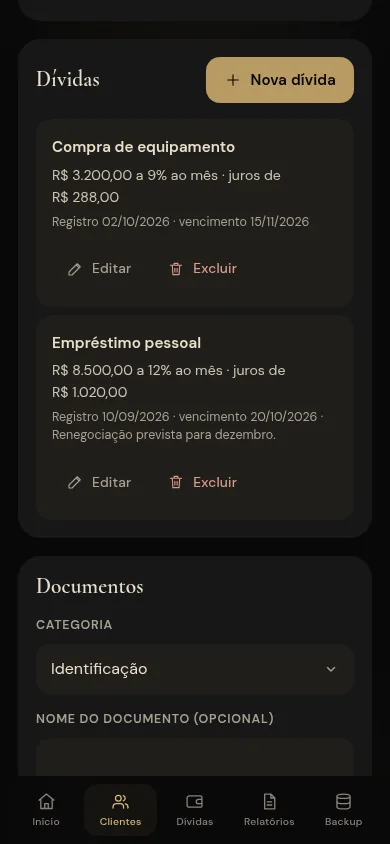
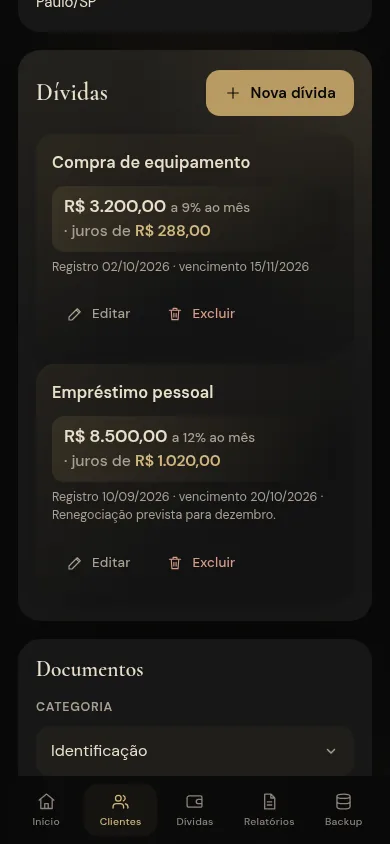
Highlight client debt card with financial hierarchy

diff --git a/sw.js b/sw.js
@@ -1,5 +1,5 @@
 // Ao adicionar arquivos nas próximas etapas: inclua-os em FILES e incremente V.
-const V='sc-v50',FILES=['./','index.html','manifest.json','css/app.css','css/ui.css','src/ui/icons.js','src/ui/shell.js','src/ui/kit.js','src/main.js','src/pwa.js','vendor/fflate.min.js','src/export/lib.js','src/export/xlsx.js','src/export/backup-format.js','src/export/backup.js','src/export/reports.js','src/ui/tools.js','src/ui/settings.js','src/core/live.js','src/domain/due.js','src/services/search.js','src/services/settings.js','src/services/dashboard.js','src/ui/dashboard.js','src/ui/avatar.js','src/ui/clientlist.js','src/ui/debtspage.js','src/ui/debts.js','src/services/debts.js','src/domain/money.js','src/ui/clients.js','src/services/clients.js','src/services/records.js','src/domain/validators.js','src/files/process.js','src/db/idb.js','src/security/crypto.js','src/security/auth.js','assets/fonts/cormorant-garamond-latin.woff2','assets/fonts/dm-sans-latin.woff2','assets/img/hat.webp','assets/img/office.webp','assets/img/office-desk.webp','assets/icons/icon-192.png','assets/icons/icon-512.png','assets/icons/icon-maskable-512.png','assets/icons/apple-touch-icon.png'];
+const V='sc-v51',FILES=['./','index.html','manifest.json','css/app.css','css/ui.css','src/ui/icons.js','src/ui/shell.js','src/ui/kit.js','src/main.js','src/pwa.js','vendor/fflate.min.js','src/export/lib.js','src/export/xlsx.js','src/export/backup-format.js','src/export/backup.js','src/export/reports.js','src/ui/tools.js','src/ui/settings.js','src/core/live.js','src/domain/due.js','src/services/search.js','src/services/settings.js','src/services/dashboard.js','src/ui/dashboard.js','src/ui/avatar.js','src/ui/clientlist.js','src/ui/debtspage.js','src/ui/debts.js','src/services/debts.js','src/domain/money.js','src/ui/clients.js','src/services/clients.js','src/services/records.js','src/domain/validators.js','src/files/process.js','src/db/idb.js','src/security/crypto.js','src/security/auth.js','assets/fonts/cormorant-garamond-latin.woff2','assets/fonts/dm-sans-latin.woff2','assets/img/hat.webp','assets/img/office.webp','assets/img/office-desk.webp','assets/icons/icon-192.png','assets/icons/icon-512.png','assets/icons/icon-maskable-512.png','assets/icons/apple-touch-icon.png'];
 addEventListener('install',e=>e.waitUntil(caches.open(V).then(c=>c.addAll(FILES)).then(()=>skipWaiting())));
 addEventListener('activate',e=>e.waitUntil(caches.keys().then(k=>Promise.all(k.filter(x=>x!==V).map(x=>caches.delete(x)))).then(()=>clients.claim())));
 addEventListener('fetch',e=>{if(e.request.method!=='GET')return;e.respondWith(caches.match(e.request,{ignoreSearch:true}).then(r=>r||fetch(e.request).catch(()=>e.request.mode==='navigate'?caches.match('index.html'):Response.error())))});

diff --git a/css/ui.css b/css/ui.css
@@ -264,6 +264,49 @@ ul.sub{list-style:none;margin:8px 0 0;padding:0 0 0 58px;display:grid;gap:6px;fo
 @media(max-width:719px){
   .doc>.actions{flex:1 0 100%;justify-content:flex-start;margin-top:2px}
 }
+/* Dívidas no perfil: superfície financeira própria, sem bordas ou divisórias. */
+.card--debts{
+  background:
+    radial-gradient(120% 100% at 100% 0%,rgba(184,154,98,.15),transparent 56%),
+    linear-gradient(160deg,rgba(184,154,98,.08),rgba(23,23,23,0) 44%),
+    var(--surface);
+  box-shadow:0 30px 70px -52px #000,0 10px 34px -30px rgba(184,154,98,.25);
+}
+.card--debts .section-head{margin-bottom:18px}
+.card--debts .section-head h2{
+  font-family:var(--font-serif);font-size:clamp(1.5rem,1.25rem + .55vw,1.72rem);
+  line-height:1.1;letter-spacing:.01em;color:var(--ivory);
+}
+.card--debts .list{gap:12px}
+.card--debts .doc{
+  background:linear-gradient(145deg,rgba(184,154,98,.10),rgba(8,8,8,.12) 64%),rgba(8,8,8,.16);
+  padding:18px;border-radius:18px;box-shadow:0 12px 30px -26px #000;
+}
+.card--debts .doc-title{font-size:1.02rem;letter-spacing:.005em;color:var(--ivory)}
+.card--debts .doc-line{
+  display:flex;flex-wrap:wrap;align-items:baseline;column-gap:.32em;row-gap:.12em;
+  margin-top:6px;padding:11px 13px;border-radius:12px;
+  background:linear-gradient(100deg,rgba(184,154,98,.14),rgba(8,8,8,.18));
+  color:var(--muted);font-size:.9rem;line-height:1.45;opacity:1;
+}
+.card--debts .debt-principal{
+  font-size:clamp(1.12rem,1.02rem + .3vw,1.24rem);font-weight:600;
+  line-height:1.2;letter-spacing:-.015em;color:var(--ivory);
+}
+.card--debts .debt-rate{color:var(--muted);font-size:.84rem;font-weight:500;white-space:nowrap}
+.card--debts .debt-interest{
+  display:inline-flex;align-items:baseline;column-gap:.28em;white-space:nowrap;
+  color:var(--gold-strong);font-size:.98rem;font-weight:600;letter-spacing:-.01em;
+}
+.card--debts .debt-interest-label{color:var(--muted);font-weight:500;letter-spacing:0}
+.card--debts .debt-interest-value{color:var(--gold-strong)}
+.card--debts .doc-meta{color:var(--muted);font-size:.78rem;margin-top:2px}
+.card--debts .doc .actions button{font-size:.84rem}
+@media(max-width:719px){
+  .card--debts{padding:20px 18px}
+  .card--debts .doc{padding:16px}
+  .card--debts .doc-line{padding:10px 12px}
+}
 .doc-ico{display:grid;place-items:center;flex:none;width:42px;height:42px;border-radius:13px;background:var(--surface-3);color:var(--gold-deep)}
 .badge{display:inline-flex;align-items:center;gap:6px;padding:4px 10px;border-radius:999px;font-size:.7rem;font-weight:600;
   letter-spacing:.04em;background:var(--surface-3);color:var(--muted);white-space:nowrap}

diff --git a/src/ui/debts.js b/src/ui/debts.js
@@ -3,11 +3,15 @@ const today=()=>new Date(Date.now()-new Date().getTimezoneOffset()*6e4).toISOStr
 const dBR=s=>s?s.split('-').reverse().join('/'):'—';
 export async function section(U,c,reload){
   const{h}=U,ds=await S.listDebts(c.id);
-  return h('section',{class:'card'},
+  return h('section',{class:'card card--debts'},
     h('div',{class:'section-head'},h('h2',{},'Dívidas'),h('button',{class:'primary',onclick:()=>form(U,c,null,reload)},'Nova dívida')),
     ds.length?h('ul',{class:'list'},ds.map(d=>h('li',{class:'doc'},
       h('div',{class:'doc-main'},h('div',{class:'doc-title'},d.description),
-        h('div',{class:'doc-line'},h('span',{class:'nowrap'},M.brl(d.principal)),` a ${M.rate(d.rate)} ao mês · juros de `,h('span',{class:'nowrap'},M.brl(d.interest))),
+        h('div',{class:'doc-line'},h('span',{class:'nowrap debt-principal'},M.brl(d.principal)),
+          h('span',{class:'debt-rate'},` a ${M.rate(d.rate)} ao mês`),
+          h('span',{class:'debt-interest'},
+            h('span',{class:'debt-interest-label'},' · juros de '),
+            h('span',{class:'debt-interest-value'},M.brl(d.interest)))),
         h('div',{class:'doc-meta'},`Registro ${dBR(d.date)} · vencimento ${dBR(d.due)}${d.notes?` · ${d.notes}`:''}`)),
       h('div',{class:'actions'},h('button',{class:'ghost',onclick:()=>form(U,c,d,reload)},'Editar'),
         h('button',{class:'ghost',onclick:async()=>{if(confirm(`Excluir a dívida “${d.description}” (${M.brl(d.principal)})?`)){await S.deleteDebt(d);reload()}}},'Excluir'))))):h('p',{class:'empty'},icon('wallet',26),'Nenhuma dívida cadastrada.'));
